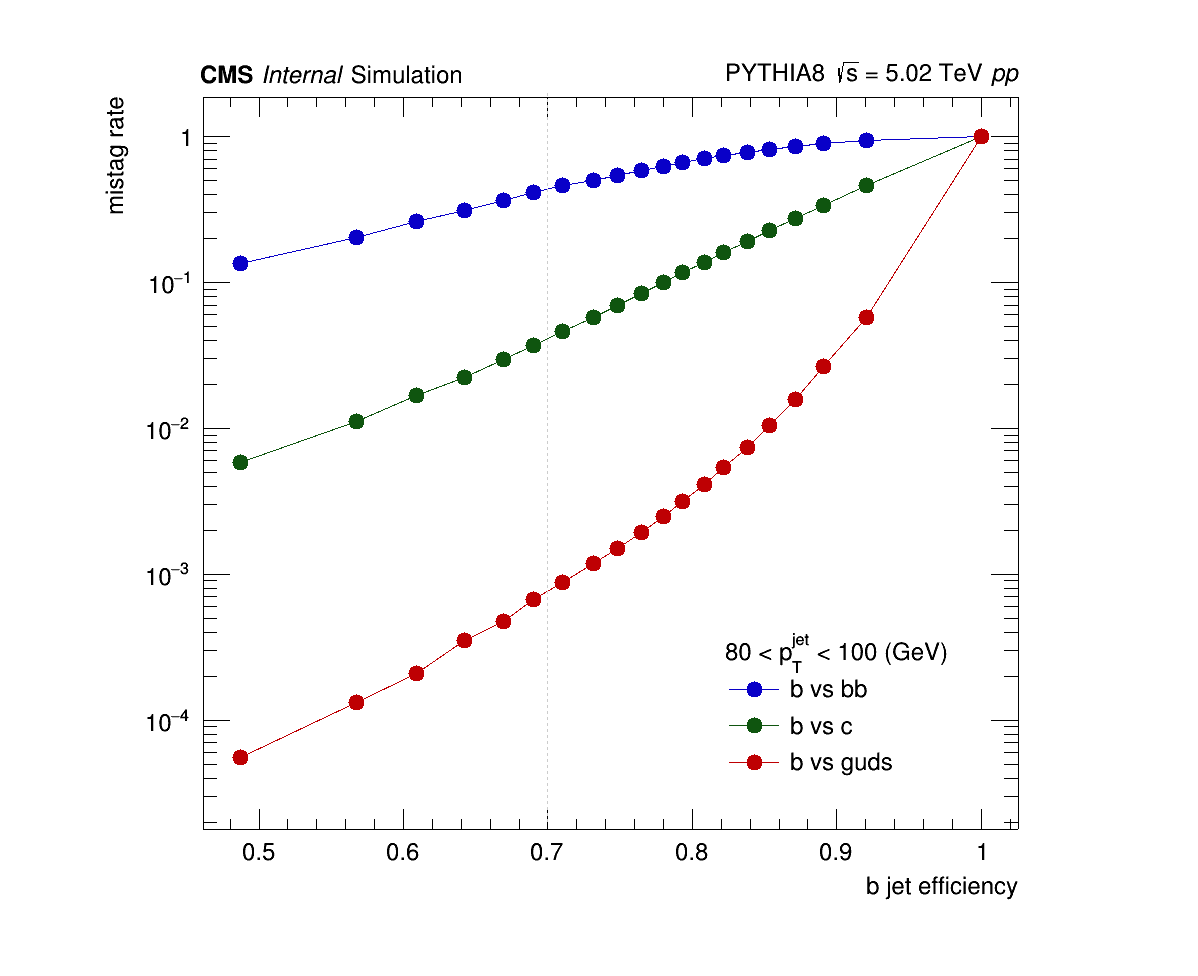
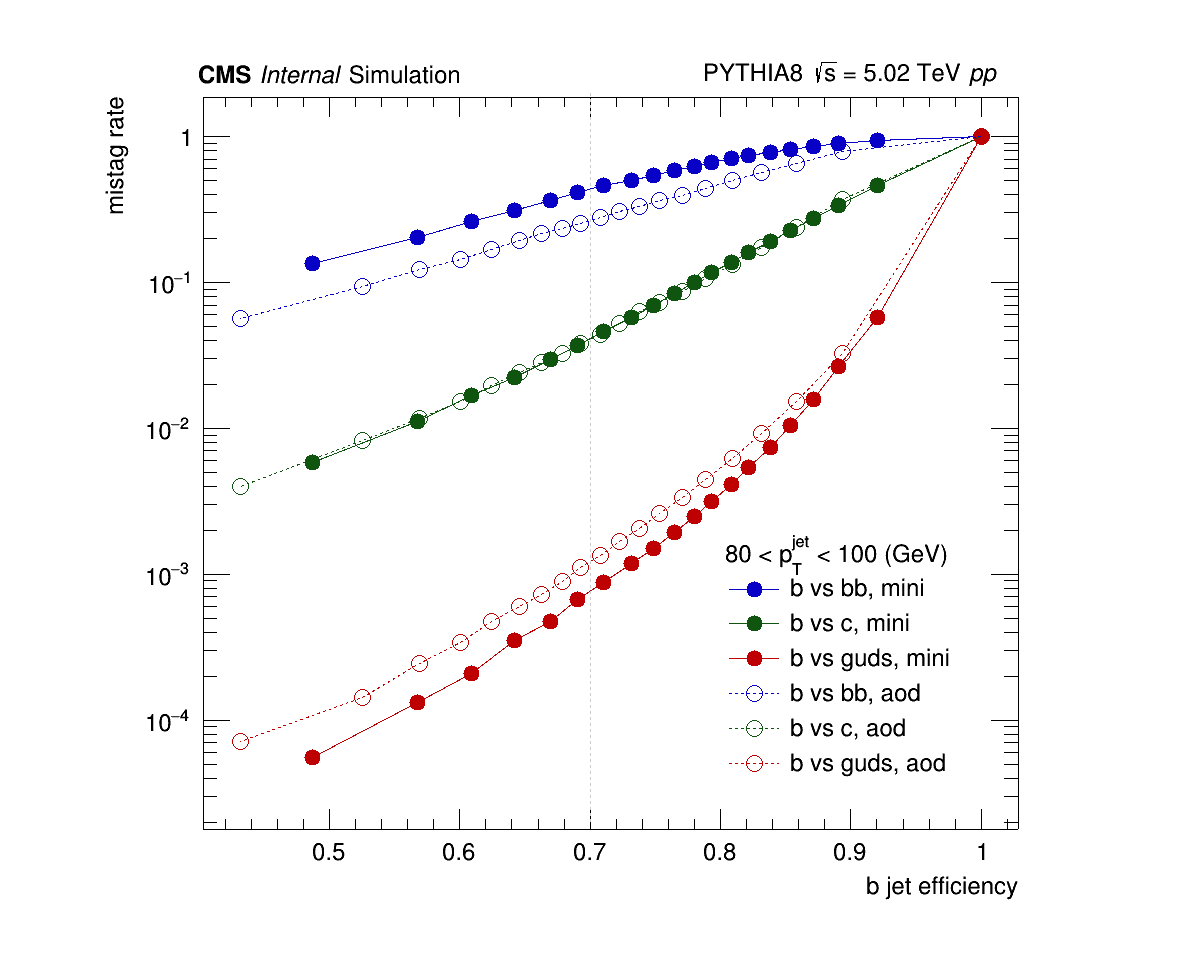
update deepJet roc to include aod

diff --git a/myMacros/C106X/btag/draw_b_vs_all.C b/myMacros/C106X/btag/draw_b_vs_all.C
@@ -23,13 +23,23 @@ void draw_b_vs_all()
     TH2F *hC_discr_mini = (TH2F *) fmini->Get("hC_discr");
     hC_discr_mini->SetName("hC_discr_mini");
 
+    TFile *faod = new TFile("./histos/aod_discr.root");
+    TH2F *hSingleB_discr_aod = (TH2F *) faod->Get("hSingleB_discr");
+    hSingleB_discr_aod->SetName("hSingleB_discr_aod");
+    TH2F *hBB_discr_aod = (TH2F *) faod->Get("hBB_discr");
+    hBB_discr_aod->SetName("hBB_discr_aod");
+    TH2F *hL_discr_aod = (TH2F *) faod->Get("hL_discr");
+    hL_discr_aod->SetName("hL_discr_aod");
+    TH2F *hC_discr_aod = (TH2F *) faod->Get("hC_discr");
+    hC_discr_aod->SetName("hC_discr_aod");
+
     // ---- Calculate roc
     Int_t iymin = hSingleB_discr_mini->GetYaxis()->FindBin(ptMin);
     Int_t iymax = hSingleB_discr_mini->GetYaxis()->FindBin(ptMax) - 1;
 
     int nbins = hSingleB_discr_mini->GetNbinsX();
 
-    TLegend *leg_roc = new TLegend(0.6, 0.2, 1., 0.35);
+    TLegend *leg_roc = new TLegend(0.6, 0.2, 1., 0.45);
     leg_roc->SetHeader(Form("%.0f < p_{T}^{jet} < %.0f (GeV)", ptMin, ptMax));
     leg_roc->SetFillStyle(0);
     leg_roc->SetBorderSize(0);
@@ -40,6 +50,7 @@ void draw_b_vs_all()
     rocs->GetYaxis()->SetTitle("mistag rate");
     rocs->GetYaxis()->SetTitleOffset(0.01);
 
+    // Add mini ROCs
     TGraph *b_vs_bb_mini = new TGraph(nbins);
     b_vs_bb_mini->SetMarkerStyle(20);
     b_vs_bb_mini->SetMarkerColor(mykBlue);
@@ -47,7 +58,7 @@ void draw_b_vs_all()
     b_vs_bb_mini->SetLineColor(b_vs_bb_mini->GetMarkerColor());
     b_vs_bb_mini->SetLineStyle(1);
     rocs->Add(b_vs_bb_mini);
-    leg_roc->AddEntry(b_vs_bb_mini, "b vs bb", "pl");
+    leg_roc->AddEntry(b_vs_bb_mini, "b vs bb, mini", "pl");
 
     TGraph *b_vs_c_mini = new TGraph(nbins);
     b_vs_c_mini->SetMarkerStyle(20);
@@ -56,7 +67,7 @@ void draw_b_vs_all()
     b_vs_c_mini->SetLineColor(b_vs_c_mini->GetMarkerColor());
     b_vs_c_mini->SetLineStyle(1);
     rocs->Add(b_vs_c_mini);
-    leg_roc->AddEntry(b_vs_c_mini, "b vs c", "pl");
+    leg_roc->AddEntry(b_vs_c_mini, "b vs c, mini", "pl");
 
     TGraph *b_vs_l_mini = new TGraph(nbins);
     b_vs_l_mini->SetMarkerStyle(kFullCircle);
@@ -65,8 +76,37 @@ void draw_b_vs_all()
     b_vs_l_mini->SetLineColor(b_vs_l_mini->GetMarkerColor());
     b_vs_l_mini->SetLineStyle(1);
     rocs->Add(b_vs_l_mini);
-    leg_roc->AddEntry(b_vs_l_mini, "b vs guds", "pl");
+    leg_roc->AddEntry(b_vs_l_mini, "b vs guds, mini", "pl");
 
+    // Add aod ROCs
+    TGraph *b_vs_bb_aod = new TGraph(nbins);
+    b_vs_bb_aod->SetMarkerStyle(kOpenCircle);
+    b_vs_bb_aod->SetMarkerColor(mykBlue);
+    b_vs_bb_aod->SetMarkerSize(2);
+    b_vs_bb_aod->SetLineColor(b_vs_bb_aod->GetMarkerColor());
+    b_vs_bb_aod->SetLineStyle(kDashed);
+    rocs->Add(b_vs_bb_aod);
+    leg_roc->AddEntry(b_vs_bb_aod, "b vs bb, aod", "pl");
+
+    TGraph *b_vs_c_aod = new TGraph(nbins);
+    b_vs_c_aod->SetMarkerStyle(kOpenCircle);
+    b_vs_c_aod->SetMarkerColor(mykGreen);
+    b_vs_c_aod->SetMarkerSize(2);
+    b_vs_c_aod->SetLineColor(b_vs_c_aod->GetMarkerColor());
+    b_vs_c_aod->SetLineStyle(kDashed);
+    rocs->Add(b_vs_c_aod);
+    leg_roc->AddEntry(b_vs_c_aod, "b vs c, aod", "pl");
+
+    TGraph *b_vs_l_aod = new TGraph(nbins);
+    b_vs_l_aod->SetMarkerStyle(kOpenCircle);
+    b_vs_l_aod->SetMarkerColor(mykRed);
+    b_vs_l_aod->SetMarkerSize(2);
+    b_vs_l_aod->SetLineColor(b_vs_l_aod->GetMarkerColor());
+    b_vs_l_aod->SetLineStyle(kDashed);
+    rocs->Add(b_vs_l_aod);
+    leg_roc->AddEntry(b_vs_l_aod, "b vs guds, aod", "pl");
+
+    // calculate ROCs
     for (int ibin = 1; ibin <= nbins; ibin++) {
         double eff_mini = hSingleB_discr_mini->Integral(ibin, nbins, iymin, iymax) / hSingleB_discr_mini->Integral(0, -1, iymin, iymax);
         double bbmis_mini = hBB_discr_mini->Integral(ibin, nbins, iymin, iymax) / hBB_discr_mini->Integral(0, -1, iymin, iymax);
@@ -76,6 +116,15 @@ void draw_b_vs_all()
         b_vs_bb_mini->SetPoint(ibin - 1, eff_mini, bbmis_mini);
         b_vs_c_mini->SetPoint(ibin - 1, eff_mini, cmis_mini);
         b_vs_l_mini->SetPoint(ibin - 1, eff_mini, lmis_mini);
+
+        double eff_aod = hSingleB_discr_aod->Integral(ibin, nbins, iymin, iymax) / hSingleB_discr_aod->Integral(0, -1, iymin, iymax);
+        double bbmis_aod = hBB_discr_aod->Integral(ibin, nbins, iymin, iymax) / hBB_discr_aod->Integral(0, -1, iymin, iymax);
+        double cmis_aod = hC_discr_aod->Integral(ibin, nbins, iymin, iymax) / hC_discr_aod->Integral(0, -1, iymin, iymax);
+        double lmis_aod = hL_discr_aod->Integral(ibin, nbins, iymin, iymax) / hL_discr_aod->Integral(0, -1, iymin, iymax);
+
+        b_vs_bb_aod->SetPoint(ibin - 1, eff_aod, bbmis_aod);
+        b_vs_c_aod->SetPoint(ibin - 1, eff_aod, cmis_aod);
+        b_vs_l_aod->SetPoint(ibin - 1, eff_aod, lmis_aod);
 
         if (ibin==14) {
             std::cout << "b eff = " << eff_mini
@@ -87,13 +136,13 @@ void draw_b_vs_all()
     }
 
     // Make decorations
-    TPaveText *info_top_left = new TPaveText(0.4, 2, 0.7, 3.5, "nb ndc");
+    TPaveText *info_top_left = new TPaveText(0.4, 2, 0.6, 3.5, "nb ndc");
     info_top_left->SetTextSize(text_size);
     info_top_left->SetFillStyle(0);
     info_top_left->SetLineWidth(0);
     info_top_left->AddText("#bf{CMS} #it{Internal} Simulation");
 
-    TPaveText *info_top_right = new TPaveText(0.8, 2, 1.05, 3.5, "nb ndc");
+    TPaveText *info_top_right = new TPaveText(0.75, 2, 1.05, 3.5, "nb ndc");
     info_top_right->SetTextSize(text_size);
     info_top_right->SetFillStyle(0);
     info_top_right->SetLineWidth(0);
